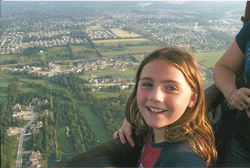
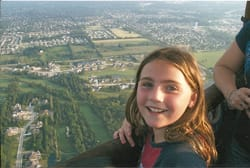
compress images

diff --git a/about.html b/about.html
@@ -9,7 +9,7 @@
 	<meta content="" name="description">
 
 	<!-- Favicons -->
-	<link href="img/favicon.png" rel="icon">
+	<link href="img/ballon.png" rel="icon">
 	<link href="img/apple-touch-icon.png" rel="apple-touch-icon">
 
 	<!-- Google Fonts -->
@@ -36,7 +36,7 @@
 
 			<div id="logo" class="pull-left">
 				<h1>
-					<a href="#hero">Skypoint Ballons</a>
+					<a href="/">Skypoint Ballons</a>
 				</h1>
 			</div>
 
@@ -107,54 +107,52 @@
 								<h1>About Our Balloon Equipment</h1>
 							</div>
 
-							<div class="row">
+							<p>
+								On a clear day you can see forever", says pilot Geoff Ziegler. "From one of our many launch sites in Hamilton county we
+								often can see downtown Indianapolis and the old Kokomo water tower." As you can imagine, we've seen many changes in the
+								landscape during thousands of flights over the Hamilton and bordering counties.
+							</p>
+
+							<div class="row about-blurbs">
 								<div class="col-lg-6">
 									<p>
-										"On a clear day you can see forever", says pilot Geoff Ziegler. "From one of our many launch sites in Hamilton county we
-										often can see downtown Indianapolis and the old Kokomo water tower." As you can imagine, we've seen many changes in the
-										landscape during thousands of flights over the Hamilton and bordering counties.
+										Our passengers enjoy first class accommodations in our new and spacious hot air balloon. In 30 years we've seen many changes in balloon technology and safety features. Our new balloon incorporates all of the latest updates.
 									</p>
 								</div>
-								<div class="col-lg-6">
-									<img src="http://via.placeholder.com/350x150" alt="">
+								<div class="col-lg-6 about-blurbs">
+									<img src="img/basket-200x150.jpg" alt="">
 								</div>
 							</div>
 
-							<div class="row">
+							<div class="row about-blurbs">
 								<div class="col-lg-6">
-									<img src="http://via.placeholder.com/350x150" alt="">
+									<img src="img/about_equip_family.jpg" alt="">
 								</div>
 								<div class="col-lg-6">
 									<p>
-										"On a clear day you can see forever", says pilot Geoff Ziegler. "From one of our many launch sites in Hamilton county we
-										often can see downtown Indianapolis and the old Kokomo water tower." As you can imagine, we've seen many changes in the
-										landscape during thousands of flights over the Hamilton and bordering counties.
+										Our basket is oversized for more room per passenger. There are no fuel tanks or equipment in our designated passenger area. Our basket sidewalls are higher than the smaller traditional baskets.
 									</p>
 								</div>
 							</div>
 
-							<div class="row">
+							<div class="row about-blurbs">
 								<div class="col-lg-6">
 									<p>
-										"On a clear day you can see forever", says pilot Geoff Ziegler. "From one of our many launch sites in Hamilton county we
-										often can see downtown Indianapolis and the old Kokomo water tower." As you can imagine, we've seen many changes in the
-										landscape during thousands of flights over the Hamilton and bordering counties.
+										Because of the unique design features of our basket, it is particularly well suited for the very young and elderly passengers. It  also offers the perfect environment for marriage proposals!
 									</p>
 								</div>
 								<div class="col-lg-6">
-									<img src="http://via.placeholder.com/350x150" alt="">
+									<img src="img/lookingoverbasketside.jpg" alt="">
 								</div>
 							</div>
 
-							<div class="row">
+							<div class="row about-blurbs">
 								<div class="col-lg-6">
-									<img src="http://via.placeholder.com/350x150" alt="">
+									<img src="img/basket-pilotpartition-200x150.jpg" alt="">
 								</div>
 								<div class="col-lg-6">
 									<p>
-										"On a clear day you can see forever", says pilot Geoff Ziegler. "From one of our many launch sites in Hamilton county we
-										often can see downtown Indianapolis and the old Kokomo water tower." As you can imagine, we've seen many changes in the
-										landscape during thousands of flights over the Hamilton and bordering counties.
+										Our basket will very comfortably hold up to six passengers (depending on combined total weight and temperature of the day.) The average is four. We have a partitioned passenger compartment. The pilot compartment is separated from the passenger compartment and contains the fuel tanks, instruments, radio equipment and burners.looking over the side of the basket. We do not require any minimum number of  passengers.
 									</p>
 								</div>
 							</div>

diff --git a/css/style.css b/css/style.css
@@ -547,7 +547,7 @@ body.mobile-nav-active #mobile-nav-toggle {
 --------------------------------*/
 #about {
   background: #fff;
-  padding: 80px 0;
+  padding: 40px 0;
 }
 
 #about .about-container .background {
@@ -706,6 +706,22 @@ body.mobile-nav-active #mobile-nav-toggle {
   color: red;
 }
 
+/* Actual about page */
+.about-page-container {
+  margin: 10px;
+}
+
+.equipment-title {
+  padding-bottom: 50px;
+  padding-top: 50px;
+  background-color: #00a885;
+  color: #111
+}
+
+.about-blurbs {
+  padding: 30px;
+}
+
 
 /* Facts Section
 --------------------------------*/
@@ -732,7 +748,7 @@ body.mobile-nav-active #mobile-nav-toggle {
 #services {
   background: #fff;
   background-size: cover;
-  padding: 80px 0 60px 0;
+  padding: 40px 0 60px 0;
 }
 
 #services .box {

diff --git a/js/main.js b/js/main.js
@@ -118,12 +118,12 @@ jQuery(document).ready(function( $ ) {
 
   // custom code
   // About page underline
-  var aboutPage = document.getElementById("about-message") ? document.getElementById("about-message") : null;
+  var aboutPageLi = document.getElementById("about-li") ? document.getElementById("about-li") : null,
+      homeLi = document.querySelector(".nav-menu > li") ? document.querySelector(".nav-menu > li") : null;
 
-  if (aboutPage) {
-    var aboutNavBtn = document.getElementById("about-li");
-
-    console.log("on the about page!")
-  } 
+  if (aboutPageLi) {
+    $(aboutPageLi).addClass("menu-active");
+    $(homeLi).removeClass("menu-active")
+  }
 
 });

diff --git a/index.html b/index.html
@@ -9,7 +9,7 @@
 	<meta content="" name="description">
 
 	<!-- Favicons -->
-	<link href="img/favicon.png" rel="icon">
+	<link href="img/ballon.png" rel="icon">
 	<link href="img/apple-touch-icon.png" rel="apple-touch-icon">
 
 	<!-- Google Fonts -->
@@ -43,7 +43,7 @@
             <nav id="nav-menu-container">
                 <ul class="nav-menu">
                     <li class="menu-active">
-                        <a href="#hero">Home</a>
+                        <a href="/">Home</a>
                     </li>
                     <li>
                         <a href="/about.html">About</a>
